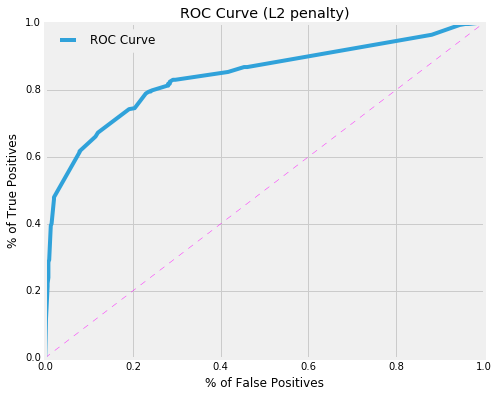
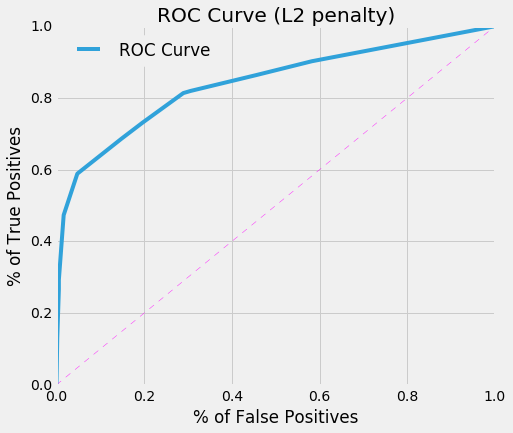
t push

diff --git a/_posts/2016-7-14-Titanic.md b/_posts/2016-7-14-Titanic.md
@@ -2,13 +2,29 @@
 layout: Project 5
 title: Titanic Passenger Data Analysis
 ---
-coming soon...
+In this project, we were tasked with using the Titanic passenger data set to build a model predicting disaster survival.  For 891 observations, variables included in the original set were: survival status, passenger class, full name, sex, age, number of siblings on board, number of parents/children on board, ticket information, fare paid, cabin information, and location of embarcation.
+
+Although about 20% of ages are missing from the data set, a histogram shows roughly a normal distribution of ages around 30 years and at least 40 children.
+
+![histo](../images/titanicagehisto.png)
+
+From the following scatterplot of fare paid vs age of passenger, we can see for example young males and well-paying females had relatively high survival rates. It appears that most males who paid no fare did not survive. No females paid no fare. There were not as many older women as older men, either alive or dead, and, in fact, almost all of them survived. The 80 year old man perhaps got helped off because he was so old. In general, it appears that the proportion of surviving females to perishing females was higher than that of surviving males to perishing males.
+
 ![scatter](../images/farevsage.png)
 
-
+For our logistic regression final model including gender, class dummy variables, 'S' embarkation dummy variable as features, we obtain the following confustion matrix:
 
 ![cm](../images/titaniccm.png)
 
+accuracy: 0.788461538462
+
+precision: 0.741214057508
+
+recall: 0.686390532544
+
+area under curve: 0.769019442096
+
+And a plot of the ROC curve itself:
 
 
 ![ROC](../images/titanicROC.png)
